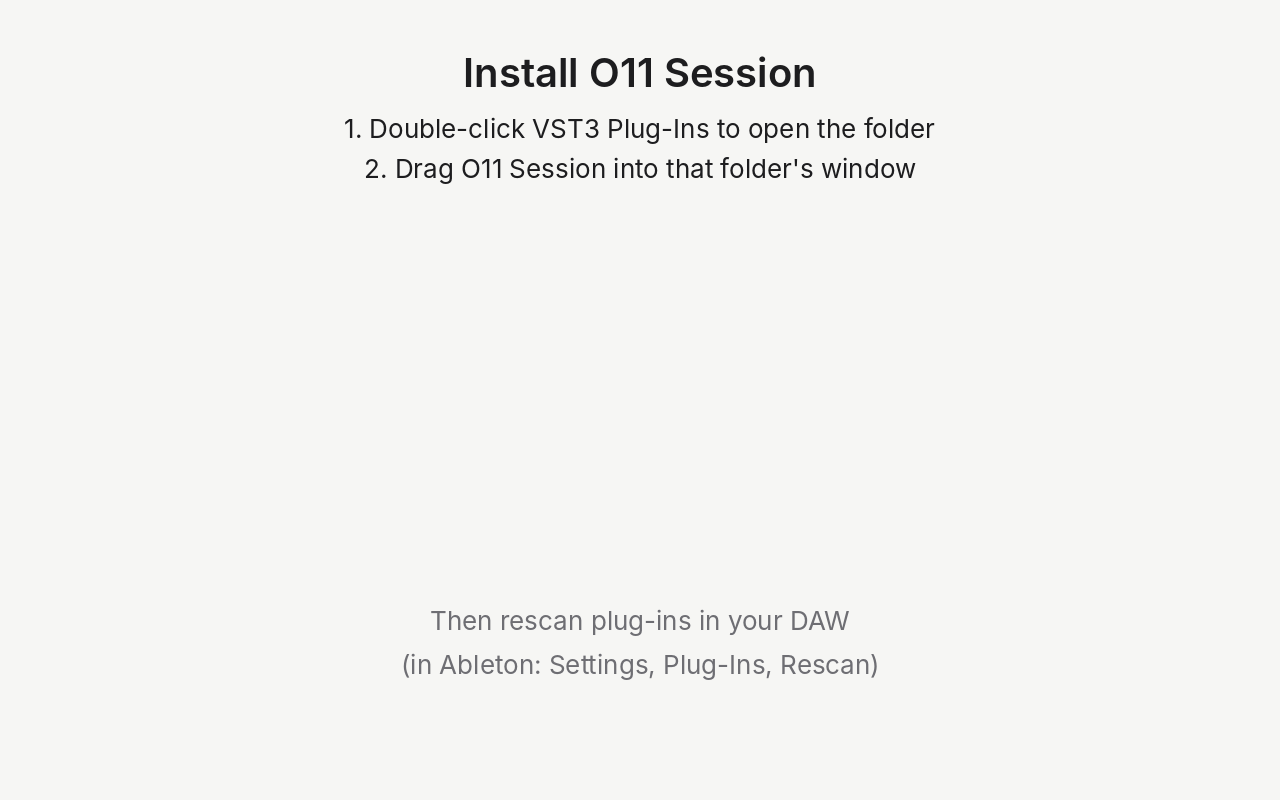
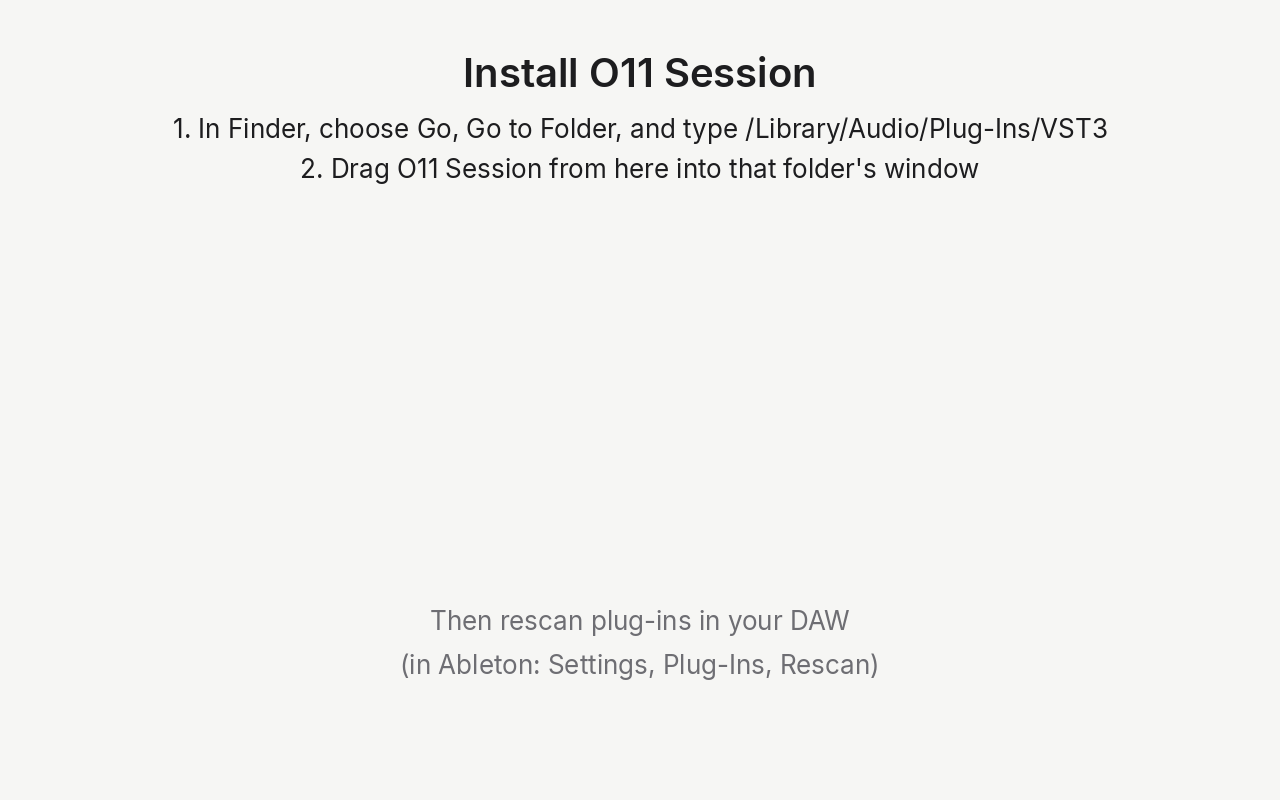
Intervals of 4 by default, P1-P8 on the rows, smooth volume, too far for Live (#30)
* Intervals of 4 by default, P1-P8 on the rows, smooth volume, too far for Live

- The room you host starts in Intervals of 4 beats unless you pick Live (Leo).
- Each player row shows the DAW output they play on alone: P1 to P8.
- Your volume glides over a block instead of stepping, so moving it fast
  doesn't click.
- In Live, when you hear someone more than 50 ms late, the room suggests
  Intervals ("Anton is 106 ms away: try Intervals"); a click switches.
- The e2e test checks the guest's row meter follows the host in Live.

Docs to write: the 50 ms Live suggestion and the P1-P8 tags, in the user guide.

Claude-Session: https://claude.ai/code/session_016QY9iFjFw7KZJMcXfMCE3A

* Mac disk image: no shortcut to the VST3 folder

Finder badges the shortcut with an arrow, which reads as "drag here", but
Finder won't take the drop (Leo). The image now holds the plug-in alone, and
its background says to open /Library/Audio/Plug-Ins/VST3 with Go to Folder
and drag the plug-in into that window. The README says the same.

Claude-Session: https://claude.ai/code/session_016QY9iFjFw7KZJMcXfMCE3A

* Meters show their level on hover; dropouts leave the row after 10 s

- Hovering a meter shows its level at the peak mark, "-12.3 dB" (Leo), in
  place of the colour key.
- A row's dropout status goes 10 s after the last dropout (was 60 s), and
  counts only the dropouts since it appeared.

Claude-Session: https://claude.ai/code/session_016QY9iFjFw7KZJMcXfMCE3A

---------

Changed region(s): [[0.1562, 0.125, 0.875, 0.25], [0.3125, 0.8125, 0.5, 0.8438], [0.5938, 0.8125, 0.6562, 0.8438]]

diff --git a/plugin/source/editor.cpp b/plugin/source/editor.cpp
@@ -169,7 +169,6 @@ static juce::Label *makeValueLabel(const juce::Font &font)
 
 static const char *SERVER_PLACEHOLDER = "IP address of a room";
 static const char *SERVER_TIP = "The room's IP address, as 203.0.113.9 (port 2049 unless you add another, as 203.0.113.9:2050)";
-static const char *METER_TIP = "Green, amber from -12 dB, red from -3 dB; the light at the right stays red after 0 dB until you click it";
 
 void O11Editor::buildViews()
 {
@@ -231,7 +230,6 @@ void O11Editor::buildViews()
   m_inputVolume->setTooltip("The volume of what you send: drag left or right (double-click for 0 dB)");
   m_inputVolume->onChange = [this]() { engine().setInputVolume(sliderToGain(m_inputVolume->value())); };
   m_myMeter = add(m_myRow, new LevelMeter);
-  m_myMeter->setTooltip(std::string("Your input. ") + METER_TIP);
 
   m_players = add(m_mixer, new juce::Viewport);
   m_players->setScrollBarsShown(true, false, true, false);
@@ -976,7 +974,27 @@ void O11Editor::updateRoom(const Snapshot &s, double)
   const Vote nobody;
   const std::string advice = liveHere && s.liveSwitchOn && s.liveRoom
                                ? uitext::liveAdviceText((int)s.liveReason, s.liveReasonWho, s.liveReasonOthers) : "";
-  if (!advice.empty())
+  // too far for Live: whoever you hear the latest, past uitext::LIVE_FAR_MS
+  std::string far;
+  int farMs = 0, farOthers = 0;
+  if (advice.empty() && liveHere && s.liveSwitchOn && s.liveRoom)
+    for (const RemoteUserView &u : s.users)
+      if (u.liveHeardMs > uitext::LIVE_FAR_MS)
+      {
+        if (u.liveHeardMs > farMs)
+        {
+          if (!far.empty()) farOthers ++;
+          far = u.displayName;
+          farMs = u.liveHeardMs;
+        }
+        else farOthers ++;
+      }
+  if (!far.empty())
+    chip(true, uitext::liveFarText(far, farMs, farOthers),
+         "Live keeps time only when everyone hears everyone within about " + std::to_string(uitext::LIVE_FAR_MS) +
+           " ms; intervals keep everyone on the beat at any distance. Click to switch the room to intervals for everyone",
+         nobody, -1, [this]() { engine().setRoomLive(false); });
+  else if (!advice.empty())
     chip(true, advice, std::string(s.liveReason == Snapshot::LiveCantLive
                                      ? "A player can't reach the others directly, so they don't hear each other in Live"
                                      : "Live audio has dropouts that intervals wouldn't have")
@@ -1142,7 +1160,6 @@ void O11Editor::rebuildRows(const Snapshot &s)
       row.solo->onChange = [this, index]() { setRemote(index, Engine::RemoteSolo, m_rows[index].solo->value() ? 1.0f : 0.0f); };
       row.container->addAndMakeVisible(row.solo);
       row.meter = new LevelMeter;
-      row.meter->setTooltip(METER_TIP);
       row.container->addAndMakeVisible(row.meter);
       m_playersContent->addAndMakeVisible(*row.container);
       m_rows.push_back(std::move(row));
@@ -1184,7 +1201,12 @@ void O11Editor::updateRows(const Snapshot &s, double now)
       // while the audio runs: the intervals, and their sound, come with it)
       RowTrack &track = m_tracks.emplace(rowKey(u.name, c.index), RowTrack { now, -1, -1 }).first->second;
       if (level > 0.0001f || !s.audioRunning) track.heard = now;
-      if (track.dropouts >= 0 && c.dropouts > track.dropouts) track.droppedAt = now;
+      if (track.dropouts >= 0 && c.dropouts > track.dropouts)
+      {
+        // a dropout after a quiet spell starts the count again
+        if (track.droppedAt < 0 || now - track.droppedAt >= uitext::DROPOUT_SECONDS) track.shownFrom = track.dropouts;
+        track.droppedAt = now;
+      }
       track.dropouts = c.dropouts;
       const double joined = u.joinedAt > 0 ? now - u.joinedAt : -1;
       std::string status;
@@ -1192,7 +1214,7 @@ void O11Editor::updateRows(const Snapshot &s, double now)
       bool silent = false, dropping = false;
       if (track.droppedAt >= 0 && now - track.droppedAt < uitext::DROPOUT_SECONDS && c.dropouts > 0)
       {
-        status = uitext::dropoutsText(c.dropouts);
+        status = uitext::dropoutsText(c.dropouts - track.shownFrom);
         color = led = Colors::amber();
         dropping = true;
       }
@@ -1205,6 +1227,7 @@ void O11Editor::updateRows(const Snapshot &s, double now)
         silent = true;
       }
       row.name->setStatus(status, color);
+      row.name->setOut(c.playerOut);
       row.led->setColor(led, !silent);
       std::string tip = u.displayName + (c.name.empty() ? std::string() : " \xc2\xb7 " + c.name) + " (" + u.name + "): ";
       tip += c.playerOut > 0 ? "also plays alone on the DAW output Player " + std::to_string(c.playerOut)

diff --git a/plugin/tests/o11_unit_test.cpp b/plugin/tests/o11_unit_test.cpp
@@ -136,22 +136,22 @@ static void test_state()
   CHECK(!offLoaded.followHostTempo);
   CHECK(e.followHostTempo);
 
-  // the room you host: 120 BPM, 4 beats, Live, Opus by default; saved with the project
+  // the room you host: 120 BPM, intervals of 4 beats, Opus by default; saved with the project
   CHECK_EQ(Settings().roomBpm, 120);
   CHECK_EQ(Settings().roomBpi, 4);
-  CHECK(Settings().roomLive && !Settings().roomFlac);
+  CHECK(!Settings().roomLive && !Settings().roomFlac);
   Settings picked;
   picked.roomBpm = 95;
   picked.roomBpi = 16;
-  picked.roomLive = false;
+  picked.roomLive = true;
   picked.roomFlac = true;
   Settings pickedLoaded;
   CHECK(pickedLoaded.deserialize(picked.serialize()));
   CHECK_EQ(pickedLoaded.roomBpm, 95);
   CHECK_EQ(pickedLoaded.roomBpi, 16);
-  CHECK(!pickedLoaded.roomLive && pickedLoaded.roomFlac);
+  CHECK(pickedLoaded.roomLive && pickedLoaded.roomFlac);
   CHECK_EQ(old.roomBpm, 120);
-  CHECK(old.roomLive);
+  CHECK(!old.roomLive);
 
   // Live's jitter buffer: automatic, not saved, and older states' setting is ignored
   CHECK_EQ(Settings().liveBufferMs, Settings::LIVE_BUFFER_AUTO);
@@ -906,6 +906,8 @@ static void test_uitext()
   CHECK_EQ(intervalsModeText(4, true), std::string("Intervals \xc2\xb7 4 beats"));
   CHECK_EQ(intervalsModeText(16, false), std::string("Intervals \xc2\xb7 16"));
   CHECK_EQ(intervalsModeText(0, false), std::string("Intervals"));
+  CHECK_EQ(liveFarText("Anton", 106, 0), std::string("Anton is 106 ms away: try Intervals"));
+  CHECK_EQ(liveFarText("Anton", 106, 1), std::string("Anton and 1 more are over 50 ms away: try Intervals"));
   CHECK_EQ(liveAdviceText(1, "Anna", 0), std::string("Anna drops out: try Intervals"));
   CHECK_EQ(liveAdviceText(1, "You", 0), std::string("Your connection drops out: try Intervals"));
   CHECK_EQ(liveAdviceText(1, "Anna", 2), std::string("Anna and 2 more drop out: try Intervals"));

diff --git a/plugin/packaging/make_dmg_background.py b/plugin/packaging/make_dmg_background.py
@@ -2,9 +2,9 @@
 """Draws the background of O11 Session's Mac disk image, at 1x and 2x.
 
 The window is 640 x 400 points. Finder draws the two icons on top, centred at the points
-dmg_settings.py gives (O11Session.vst3 at 170,180 and the VST3 folder at 470,180). Finder
-won't drop a bundle on a shortcut to a system folder, so there is no arrow: the text says to
-open the folder first and drag the plug-in into its window. The plug-in in the image is
+dmg_settings.py gives (O11Session.vst3 at 320,180). There is no shortcut to the VST3 folder:
+Finder won't drop a bundle on one, and its arrow badge reads as "drag here" (Leo). The text
+says how to open the folder and drag the plug-in into its window. The plug-in in the image is
 signed with a Developer ID and notarized, so there is no Terminal step.
 
   python3 make_dmg_background.py SANS.otf SANS-SEMIBOLD.otf OUT_DIR
@@ -18,7 +18,7 @@ import sys
 from PIL import Image, ImageDraw, ImageFont
 
 W, H = 640, 400
-LEFT, RIGHT, ICONS_Y = 170, 470, 180
+ICON_X, ICON_Y = 320, 180
 BACKGROUND = (246, 246, 244)
 TEXT = (29, 29, 31)
 DIM = (110, 110, 115)
@@ -35,8 +35,8 @@ def draw(scale, sans, semibold):
         d.text((s(W / 2), s(y)), text, font=font, fill=fill, anchor="mm")
 
     centred(36, "Install O11 Session", title, TEXT)
-    centred(64, "1. Double-click VST3 Plug-Ins to open the folder", body, TEXT)
-    centred(84, "2. Drag O11 Session into that folder's window", body, TEXT)
+    centred(64, "1. In Finder, choose Go, Go to Folder, and type /Library/Audio/Plug-Ins/VST3", body, TEXT)
+    centred(84, "2. Drag O11 Session from here into that folder's window", body, TEXT)
 
     # the step after it, in the bottom third (Finder's labels end near y = 255)
     centred(310, "Then rescan plug-ins in your DAW", body, DIM)

diff --git a/plugin/source/views.cpp b/plugin/source/views.cpp
@@ -496,6 +496,12 @@ void LevelMeter::setLevel(float peak, double now)
   repaint();
 }
 
+juce::String LevelMeter::getTooltip()
+{
+  if (!(m_peak > 0)) return "-inf dB";
+  return str(uitext::dbText(powf(10.0f, (uitext::METER_FLOOR_DB * (1.0f - m_peak)) / 20.0f)));
+}
+
 void LevelMeter::mouseDown(const juce::MouseEvent &e)
 {
   if (!e.mods.isLeftButtonDown() || !m_clip) return;
@@ -556,6 +562,13 @@ void NameCell::setStatus(const std::string &status, juce::Colour color)
   repaint();
 }
 
+void NameCell::setOut(int player)
+{
+  if (player == m_out) return;
+  m_out = player;
+  repaint();
+}
+
 void NameCell::setNameColor(juce::Colour c)
 {
   if (c == m_nameColor) return;
@@ -567,7 +580,8 @@ void NameCell::paint(juce::Graphics &g)
 {
   const float w = (float)getWidth(), h = (float)getHeight();
   float x = 0;
-  // as much as fits, cut with an ellipsis: the name first, then the channel, then the status
+  // as much as fits, cut with an ellipsis: the name first, then the channel, the DAW output
+  // they play on alone ("P1", for the output Player 1), then the status
   auto part = [&](const std::string &text, const juce::Font &font, juce::Colour color) {
     if (text.empty() || x >= w - 4) return;
     g.setFont(font);
@@ -578,6 +592,7 @@ void NameCell::paint(juce::Graphics &g)
   };
   part(m_name, m_nameFont, m_nameColor);
   if (!m_channel.empty()) part(" \xc2\xb7 " + m_channel, m_nameFont, Colors::label());
+  if (m_out > 0) part(" \xc2\xb7 P" + std::to_string(m_out), m_nameFont, Colors::label());
   if (!m_status.empty() && x + m_gap < w - 20)
   {
     x += m_gap;

diff --git a/plugin/tests/o11_e2e_test.cpp b/plugin/tests/o11_e2e_test.cpp
@@ -193,6 +193,7 @@ int main()
   Room room;
   // the host: a room on this computer (120 BPM, 4 BPI), joined at once
   CHECK(room.host.command("name Host") == "ok");
+  room.host.setStartRoom(120, 4, true, false); // Live, for the Live checks below (the default is intervals)
   CHECK(room.host.command("host on") == "ok");
   CHECK(room.waitFor(room.host, "state", "connected", 10));
   const std::string hostStatus = room.host.command("status");
@@ -232,9 +233,22 @@ int main()
   CHECK(room.waitForLive(room.guest, "server", "1", 10));
   CHECK(room.waitForLive(room.guest, "switch", "1", 5));
   CHECK(room.waitForLive(room.host, "switch", "1", 5));
+  // in Live the guest's row meter follows the host it hears
+  for (int i = 0; i < 8 && field(room.guest.command("live"), "room") != "live"; i ++) room.advance(0.5);
+  CHECK(field(room.guest.command("live"), "room") == "live");
+  room.advance(1.0);
+  {
+    const std::string u = room.guest.command("users");
+    const size_t at = u.find("level=");
+    const double level = at == std::string::npos ? 0 : atof(u.c_str() + at + 6);
+    printf("  guest hears in Live: %s", u.c_str());
+    CHECK(level > 0.1);
+  }
   CHECK(room.guest.command("live off") == "ok");
   CHECK(room.waitForLive(room.host, "switch", "0", 5));
   CHECK(room.waitForLive(room.guest, "switch", "0", 5));
+  // back to intervals when the next one starts
+  for (int i = 0; i < 8 && field(room.guest.command("live"), "room") != "intervals"; i ++) room.advance(0.5);
   CHECK(field(room.guest.command("live"), "room") == "intervals");
 
   // Opus, at the room's bitrate

diff --git a/plugin/source/uitext.h b/plugin/source/uitext.h
@@ -30,7 +30,7 @@ constexpr double PIXELS_PER_BPM = 2.0;               // dragging the BPM box up 
 // the level meters show -60 dB to 0 dB: green, amber from -12 dB, red from -3 dB
 constexpr float METER_FLOOR_DB = -60.0f, METER_AMBER = 0.8f, METER_RED = 0.95f;
 constexpr double JOINED_SECONDS = 30.0;              // a player's row says "joined" this long
-constexpr double DROPOUT_SECONDS = 60.0;             // and how many dropouts it had, this long after one
+constexpr double DROPOUT_SECONDS = 10.0;             // and how many dropouts it had lately, this long after the last
 
 // the BPM box dragged dy pixels up (down when negative) from start, within BPM_MIN..BPM_MAX
 int dragBpm(int start, double dy, bool fine);
@@ -67,6 +67,10 @@ std::string intervalsModeText(int beats, bool unit);
 // Intervals: "Anna drops out: try Intervals", "Your connection drops out: try Intervals",
 // "Carol and 1 more can't play Live: try Intervals"; "" for no reason
 std::string liveAdviceText(int reason, const std::string &who, int others);
+// Live is in time only when everyone hears everyone soon enough: past LIVE_FAR_MS the room
+// suggests Intervals, "Anton is 106 ms away: try Intervals", "Anton and 1 more are over 50 ms away: ..."
+constexpr int LIVE_FAR_MS = 50;
+std::string liveFarText(const std::string &who, int ms, int others);
 // how long ago something happened, in the room panel: "now", "12 s", "2 min", "1 h"
 std::string ageText(double seconds);
 // a server's line with the players' addresses taken out: "anna@203.0.113.9 set ..." is "anna set ..."

diff --git a/plugin/source/engine.h b/plugin/source/engine.h
@@ -210,9 +210,10 @@ struct Settings
   bool transmit = true;
   int opusKbps = DEFAULT_OPUS_KBPS; // what we send in Opus rooms; FLAC is lossless and ignores it
   bool followHostTempo = true; // Sync: follow the host's tempo (and line up with its bars)
-  // the room you host starts with these; picked in the editor, also before you host
+  // the room you host starts with these; picked in the editor, also before you host. Its server
+  // opens Live when it can, and the plug-in switches Live off at once unless roomLive
   int roomBpm = 120, roomBpi = 4;
-  bool roomLive = true, roomFlac = false;
+  bool roomLive = false, roomFlac = false; // Intervals of 4 beats by default (Leo)
   int liveBufferMs = DEFAULT_LIVE_BUFFER_MS; // Live's jitter buffer: LIVE_BUFFER_AUTO, or fixed at one of LIVE_BUFFER_MS; not saved: only the `live buffer` command and O11_LIVE_BUFFER_MS (tests) change it
   int editorWidth = 0, editorHeight = 0; // the editor's size, 0 for the default
 
@@ -367,6 +368,7 @@ private:
 
   // audio thread
   std::atomic<float> m_inputGain { 1.0f };
+  float m_inputGainNow = -1; // the audio thread's: the gain it ramps from (-1 before the first block)
   std::atomic<float> m_clickVolume { 0.5f }; // 0 when muted
   Click m_click;
   std::atomic<int> m_sampleRate { 48000 };

diff --git a/plugin/packaging/dmg_settings.py b/plugin/packaging/dmg_settings.py
@@ -1,5 +1,6 @@
-# dmgbuild settings for O11 Session's Mac disk image: the plug-in, a shortcut to the VST3 folder to
-# open, and a background that says to open it and drag the plug-in in (make_dmg_background.py draws it).
+# dmgbuild settings for O11 Session's Mac disk image: the plug-in alone (no shortcut to the VST3
+# folder: its arrow badge reads as "drag here", and Finder won't take the drop), over a background
+# that says how to open the folder and drag the plug-in in (make_dmg_background.py draws it).
 #
 #   dmgbuild -s dmg_settings.py -D bundle=path/to/O11Session.vst3 -D background=dmg-background.png "O11 Session" out.dmg
 #
@@ -14,12 +15,11 @@ background = defines["background"]  # noqa: F821
 format = "UDRW"
 filesystem = "HFS+"
 files = [bundle]
-symlinks = {"VST3 Plug-Ins": "/Library/Audio/Plug-Ins/VST3"}
 
 # the same points as in make_dmg_background.py; Finder counts the window's y up from the bottom
 # of the screen, so 400 puts it in the upper half of most screens
 window_rect = ((200, 400), (640, 400))
-icon_locations = {"O11Session.vst3": (170, 180), "VST3 Plug-Ins": (470, 180)}
+icon_locations = {"O11Session.vst3": (320, 180)}
 icon_size = 112
 text_size = 13
 default_view = "icon-view"

diff --git a/plugin/source/engine.cpp b/plugin/source/engine.cpp
@@ -526,13 +526,16 @@ void Engine::process(float **in, int numIn, float **out, int numOut, int frames,
     int pos = 0, length = 0;
     m_client->position(&pos, &length);
     if (m_client->isIntervalRunning() && pos < length) n = std::min(n, length - pos);
+    // your volume glides to a new value over the piece: a step in the gain clicks
+    const float from = m_inputGainNow < 0 ? gain : m_inputGainNow, step = (gain - from) / (float)n;
+    m_inputGainNow = gain;
     for (int c = 0; c < 2; c ++)
     {
       const float *src = c == 0 ? inL : inR;
       float *mon = c == 0 ? m_monL.data() : m_monR.data();
-      if (src)
-        for (int i = 0; i < n; i ++) mon[i] = src[done + i] * gain;
-      else memset(mon, 0, sizeof(float) * (size_t)n);
+      if (!src) memset(mon, 0, sizeof(float) * (size_t)n);
+      else if (step == 0) for (int i = 0; i < n; i ++) mon[i] = src[done + i] * gain;
+      else for (int i = 0; i < n; i ++) mon[i] = src[done + i] * (from + step * (float)(i + 1));
     }
     // the engine only reads its input: your input as you hear it, or silence (m_bufL and m_bufR
     // are never written after setupProcessing) while the host is stopped

diff --git a/plugin/source/views.h b/plugin/source/views.h
@@ -263,6 +263,7 @@ public:
   void setLevel(float peak, double now); // the latest peak (linear), at now (seconds)
   void paint(juce::Graphics &g) override;
   void mouseDown(const juce::MouseEvent &e) override; // puts the clip light out
+  juce::String getTooltip() override; // the level at the peak mark, "-12.3 dB"
 
 private:
   float m_level = 0, m_peak = 0; // fractions of the meter
@@ -278,6 +279,7 @@ public:
   NameCell(const juce::Font &nameFont, const juce::Font &statusFont, float statusGap);
   void setPlayer(const std::string &name, const std::string &channel);
   void setStatus(const std::string &status, juce::Colour color);
+  void setOut(int player); // the DAW output Player 1-8 they play on alone, 0 for none
   void setNameColor(juce::Colour c);
   void paint(juce::Graphics &g) override;
 
@@ -285,6 +287,7 @@ private:
   juce::Font m_nameFont, m_statusFont;
   float m_gap;
   std::string m_name, m_channel, m_status;
+  int m_out = 0;
   juce::Colour m_nameColor = Colors::value(), m_statusColor = Colors::label();
 };
 

diff --git a/plugin/source/uitext.cpp b/plugin/source/uitext.cpp
@@ -144,6 +144,13 @@ std::string liveAdviceText(int reason, const std::string &who, int others)
   }
 }
 
+std::string liveFarText(const std::string &who, int ms, int others)
+{
+  if (others > 0)
+    return who + " and " + std::to_string(others) + " more are over " + std::to_string(LIVE_FAR_MS) + " ms away: try Intervals";
+  return who + " is " + std::to_string(ms) + " ms away: try Intervals";
+}
+
 std::string ageText(double seconds)
 {
   if (!(seconds >= 5)) return "now";

diff --git a/plugin/source/editor.h b/plugin/source/editor.h
@@ -151,6 +151,7 @@ private:
     double heard = 0;   // when it last had sound
     long dropouts = -1; // its dropouts when last seen (-1: not seen yet)
     double droppedAt = -1; // when they last went up
+    long shownFrom = 0;    // its dropouts before the ones the status counts now
   };
   std::map<std::string, RowTrack> m_tracks; // by user and channel
 
